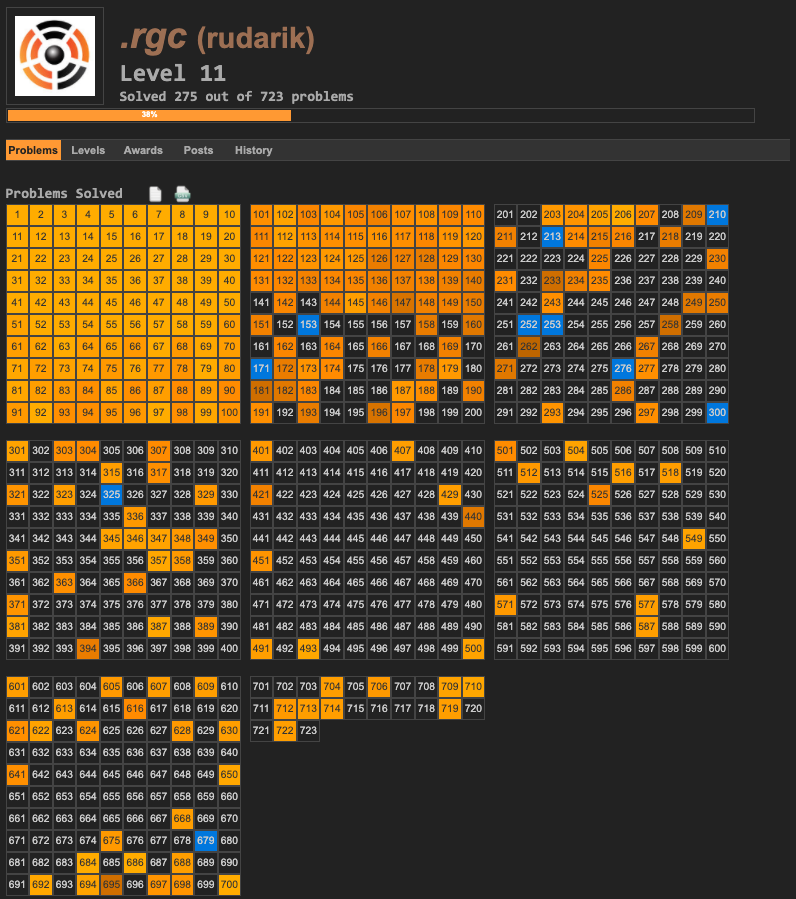
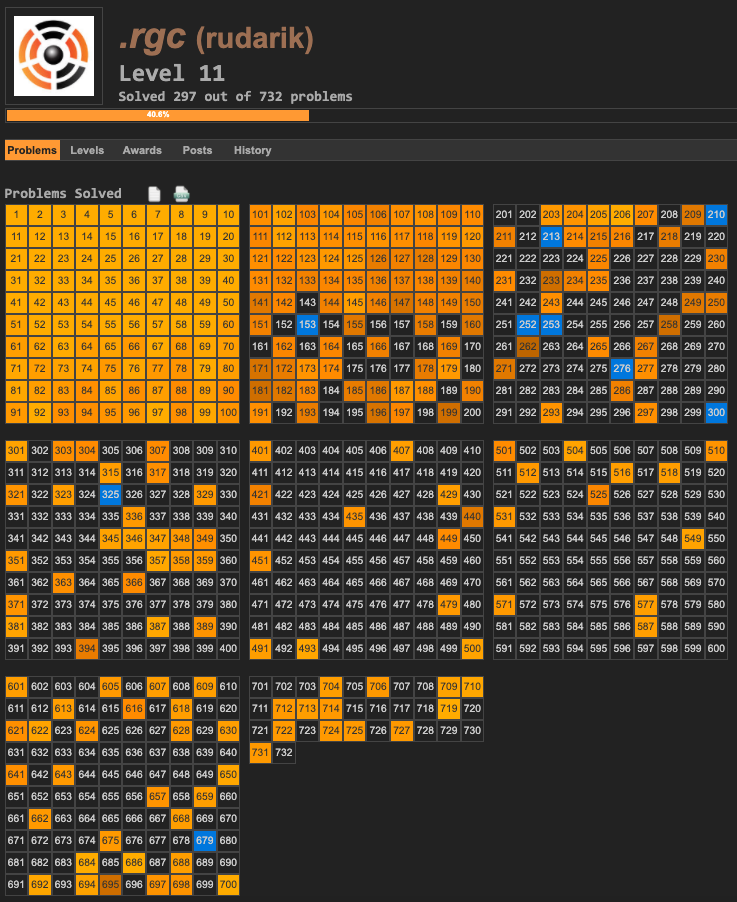
small updates

diff --git a/Teaching.html b/Teaching.html
@@ -99,11 +99,11 @@ This is some of the material that I have used in passed courses.
       <h1 class="w3-text-teal" id="smtb">SMTB</h1>
       <p>The School of Molecular and Theoretical Biology is aimed for highschool students interested in science in general and specifically in Biology. Students combine small biology-realted projects with other free-topic courses. This is some material from past courses: 
 	<ul>
-	  <li> Topological Data Analysis in Python. Topological understanding of persistent homology and python applications.</li>
+	  <li> Topological Data Analysis in Python. Topological understanding of persistent homology and applications in Python.</li>
 	  <ul>
 	    <li><a href="https://github.com/RodericGuigoCorominas/smtb2019perhom">Slides, notebooks and exercises.</a></li>
 	  </ul>
-	  <li> Fractals, Chaos and Dynamical Systems. Path through the basics of complex dynamics and python, from discrete iterations to plots of Mandelbrot and Julia sets. </li>
+	  <li> Fractals, Chaos and Dynamical Systems. Walk through the basics of complex dynamics using Python. From discrete iterations to plots of Mandelbrot and Julia sets. </li>
 	  <ul>
 	    <li><a href="smtbtasks/Task I.ipynb" download>Task I</a></li>
 	    <li><a href="smtbtasks/Task II.ipynb" download>Task II</a></li>

diff --git a/Forfun.html b/Forfun.html
@@ -71,7 +71,7 @@ html,body,h1,h2,h3,h4,h5,h6 {font-family: "Roboto", sans-serif}
 <div class="w3-row w3-padding-64">
     <div class="w3-twothird w3-container">
       <h1 class="w3-text-teal", id="euler">Project Euler</h1>
-Currently level 10 with over 270 solved <a href="https://projecteuler.net/archives">problems</a>. I keep a <a href="https://github.com/RodericGuigoCorominas/project-euler">log</a> with links to the relevant theoretical background of each problem I solve. 
+Currently level 11 with almost 300 solved <a href="https://projecteuler.net/archives">problems</a>. I keep a <a href="https://github.com/RodericGuigoCorominas/project-euler">log</a> with links to the relevant theoretical background of each problem I solve. 
     </div>
     <div class="w3-third w3-container">
       <img src="webimages/rudarik_progress.png" alt="progress" style="width:100%;">
